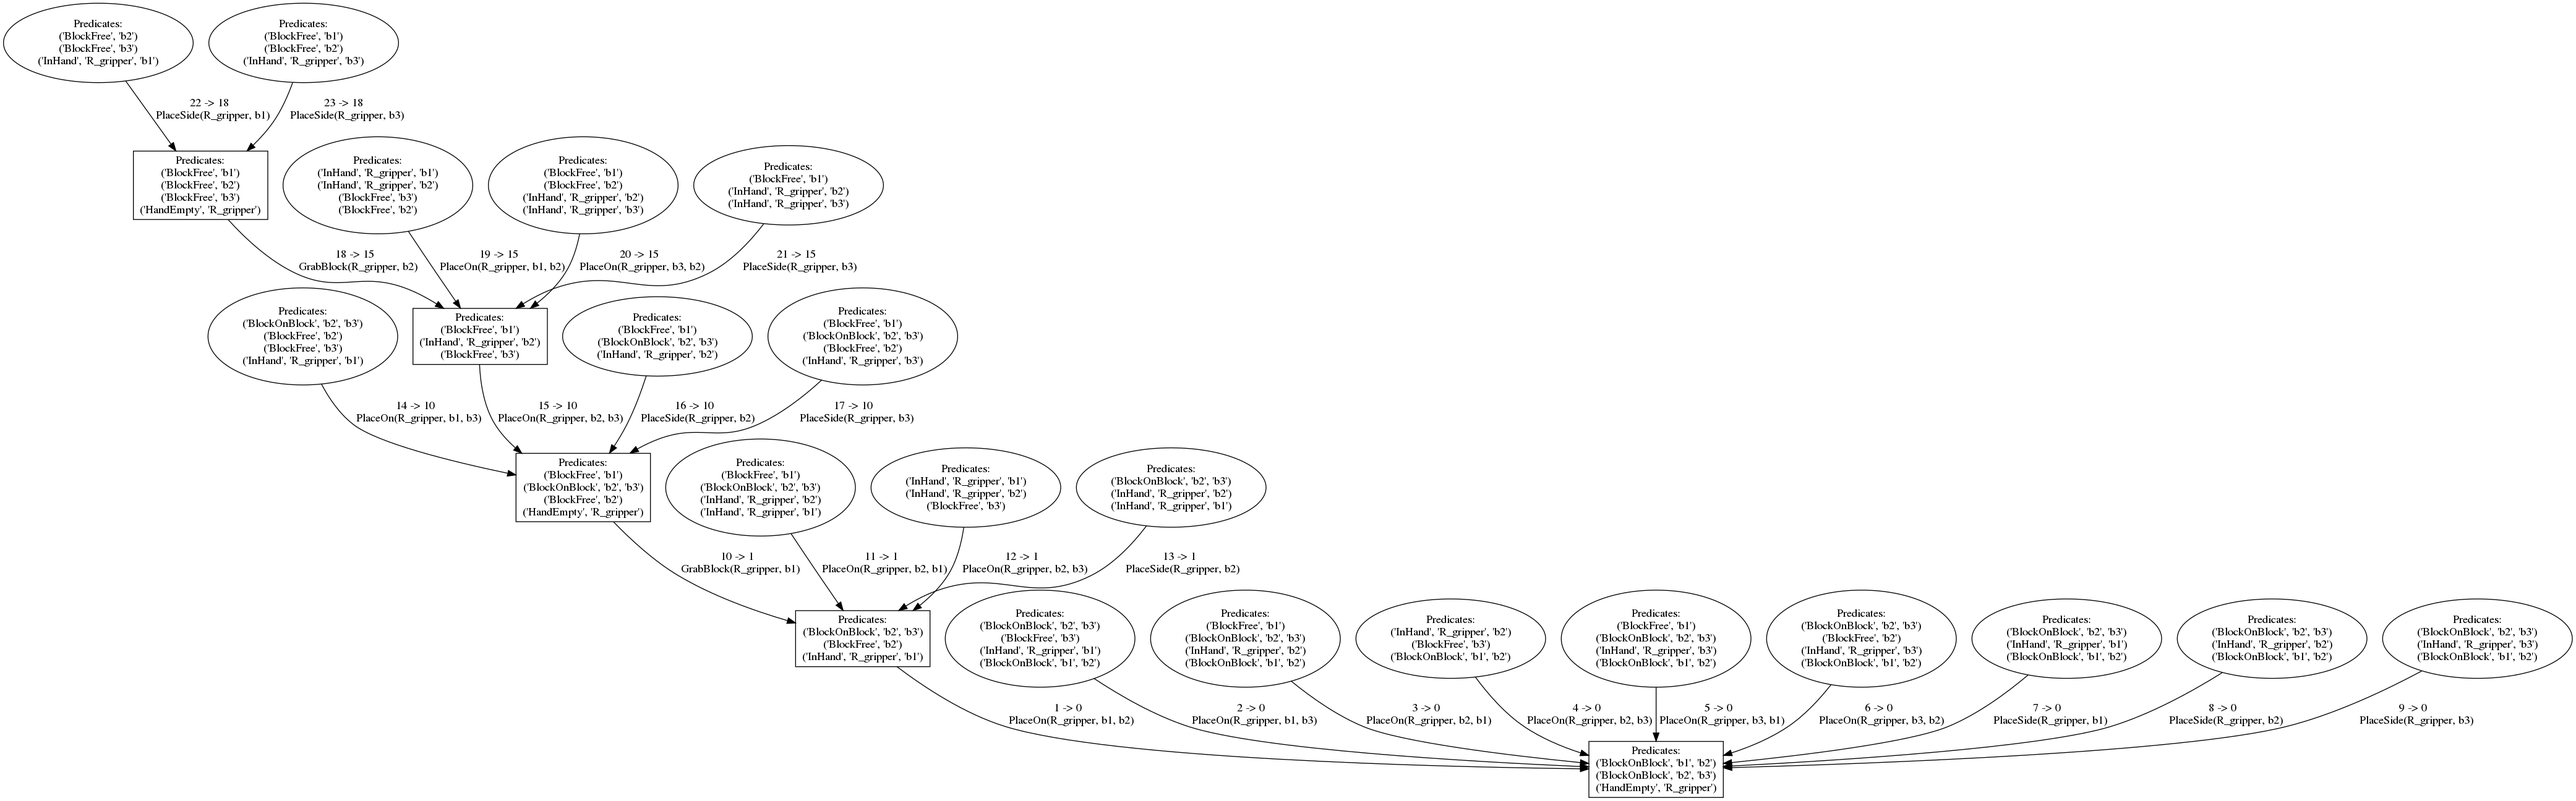
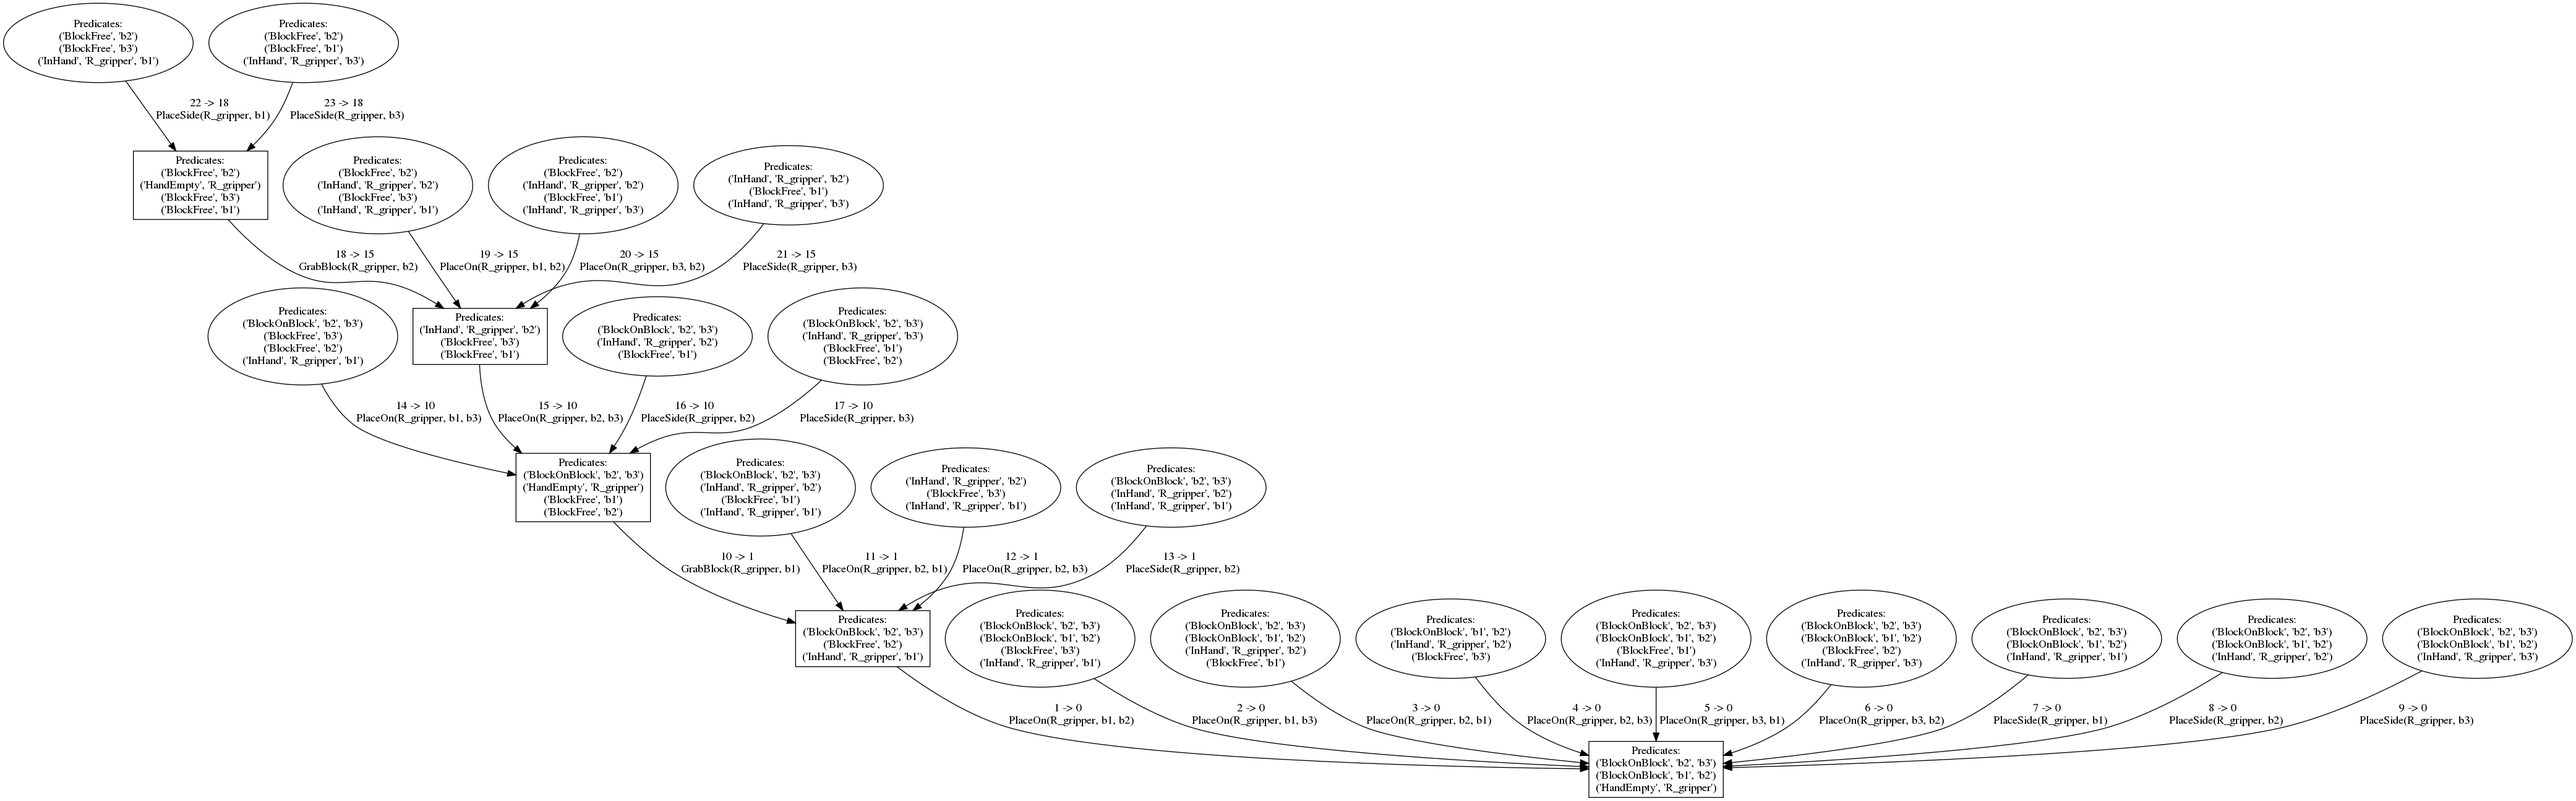
holding switches are working

diff --git a/src/feasibility.py b/src/feasibility.py
@@ -96,7 +96,7 @@ def check_switch_chain_feasibility(C, controls, goal, scene_objects, tolerance=0
                 if end == len(controls):
                     komo.addSwitch_stable(start+1, -1, gripper_name, "world", block)
                 else:
-                    komo.addSwitch_stable(start, end, gripper_name, "world", block)
+                    komo.addSwitch_stable(start+1, end, gripper_name, "world", block)
 
         print(holding_duration)
     # solve or optimize the given komo objectives

diff --git a/src/actions.py b/src/actions.py
@@ -381,7 +381,7 @@ class PlaceSide(BaseAction):
         self.delete_effects = self.preconditions
 
     def get_grounded_control_set(self, C, frames):
-        free_place = (0.5, 0.1, 0.68)
+        free_place = (-0.3, 0.3, 0.68)
         table_pos = (-0.2, -0.2, 0)
         sym2frame = _get_sym2frame(self.symbols, frames)
 
